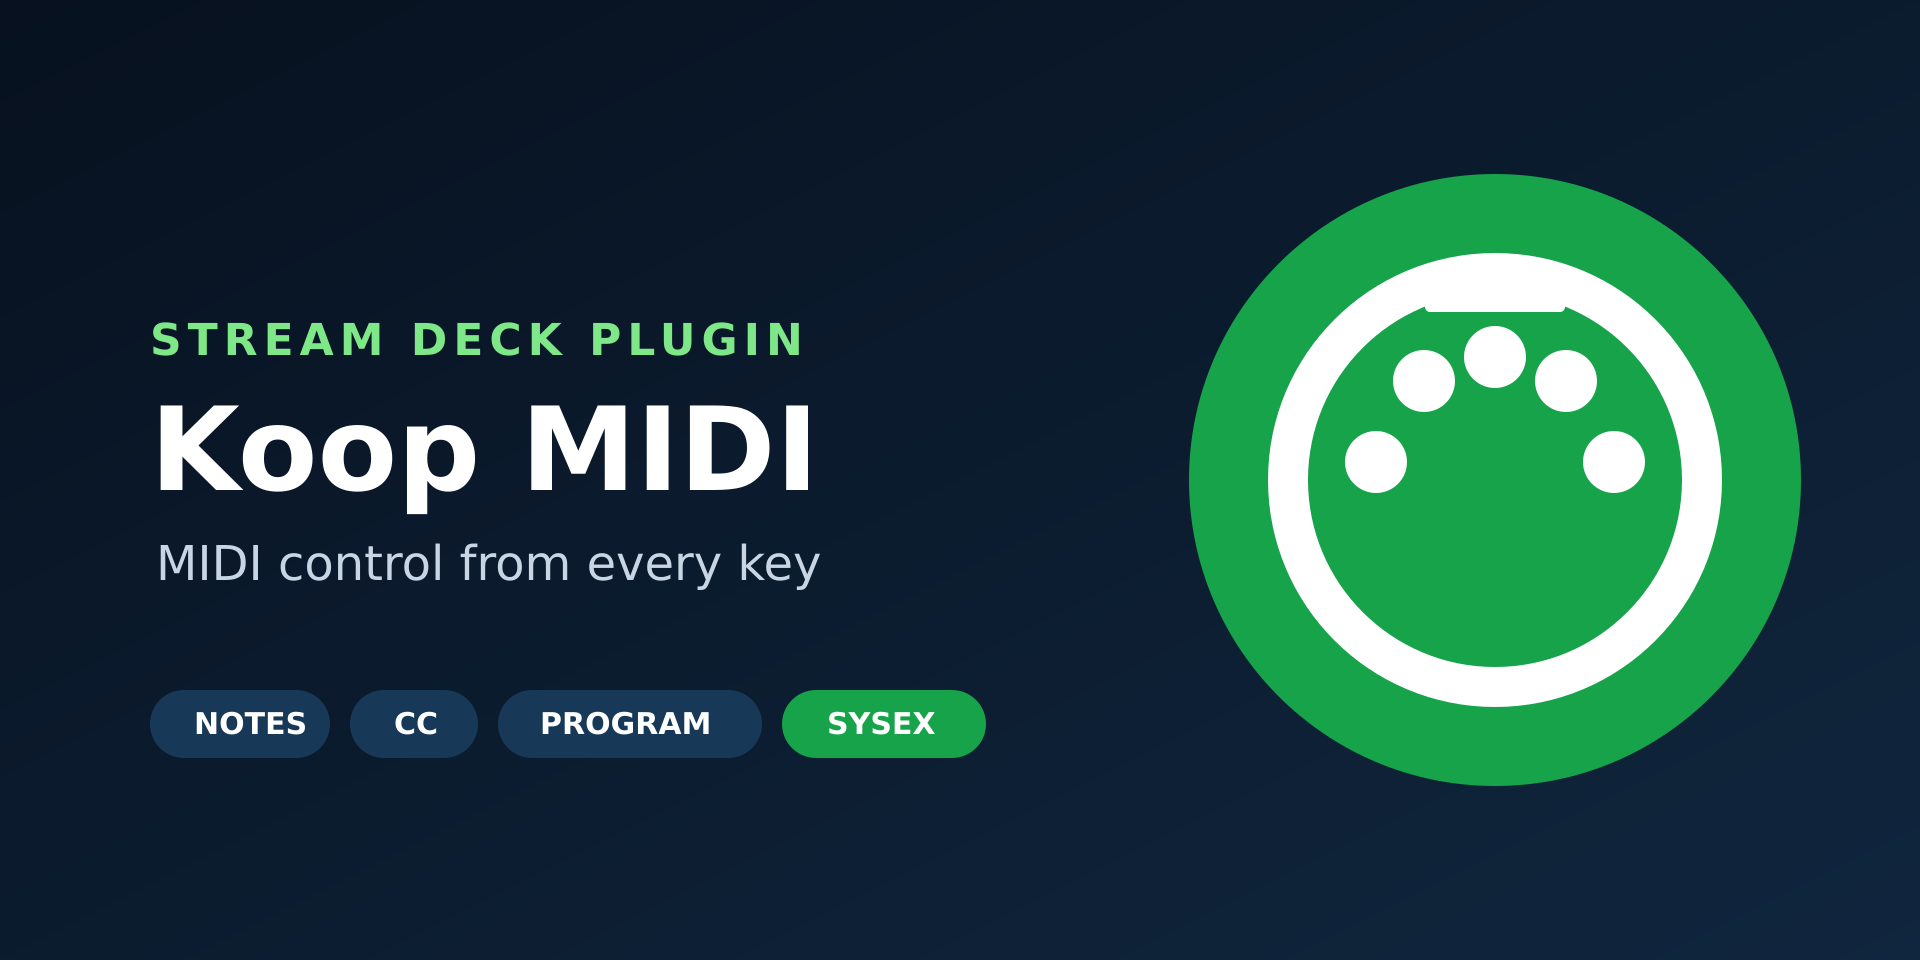
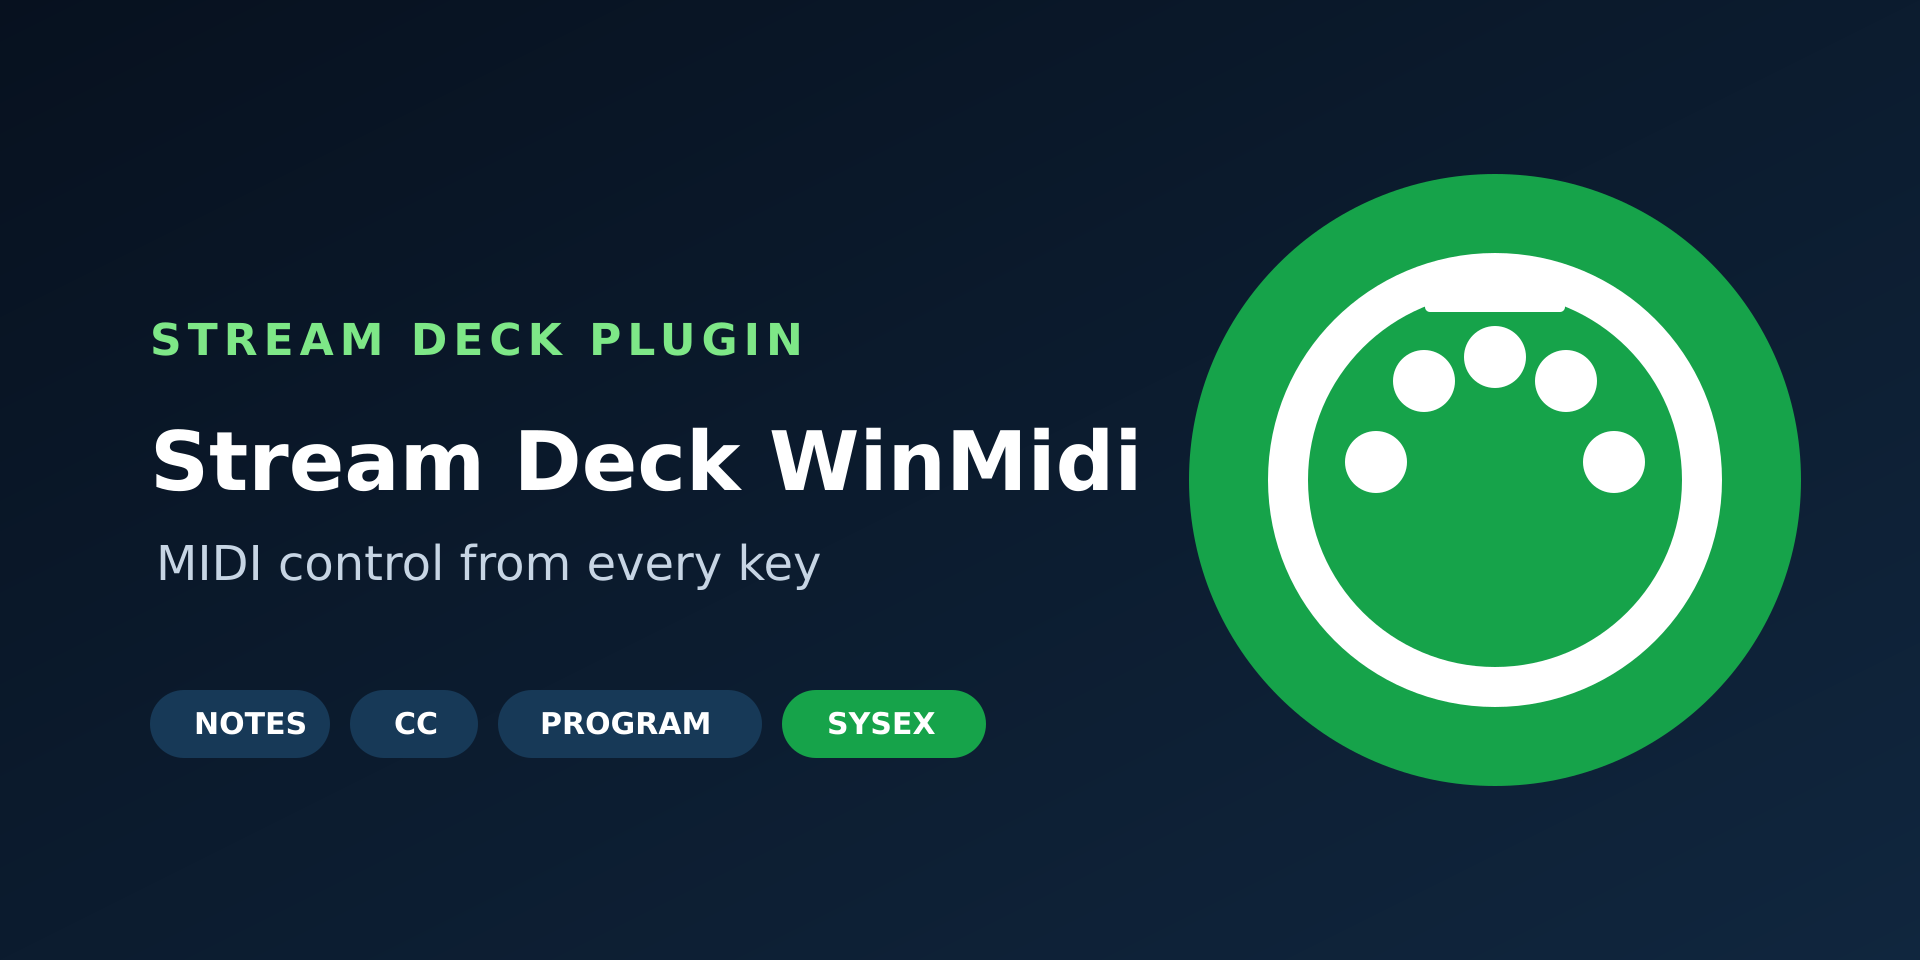
Rename product to Stream Deck WinMidi

Changed region(s): [[0.0625, 0.4062, 0.5938, 0.5312]]

diff --git a/com.koop.streamdeck-midi.sdPlugin/ui/send-midi.html b/com.koop.streamdeck-midi.sdPlugin/ui/send-midi.html
@@ -2,7 +2,7 @@
 <html>
 <head>
   <meta charset="utf-8">
-  <title>Koop MIDI</title>
+  <title>Stream Deck WinMidi</title>
   <script src="sdpi-components.js"></script>
   <style>
     .koop-help { color: #9fd7ff; text-decoration: none; }
@@ -58,9 +58,9 @@
   </sdpi-item>
   <sdpi-item label="Help">
     <sdpi-static>
-      <a class="koop-help" href="https://github.com/ibanman555/Koop-MIDI#readme" target="_blank" rel="noopener">Setup guide</a>
+      <a class="koop-help" href="https://github.com/ibanman555/Stream-Deck-WinMidi#readme" target="_blank" rel="noopener">Setup guide</a>
       &nbsp;·&nbsp;
-      <a class="koop-help" href="https://github.com/ibanman555/Koop-MIDI/issues" target="_blank" rel="noopener">Report an issue</a>
+      <a class="koop-help" href="https://github.com/ibanman555/Stream-Deck-WinMidi/issues" target="_blank" rel="noopener">Report an issue</a>
     </sdpi-static>
   </sdpi-item>
 </body>

diff --git a/marketplace/listing.md b/marketplace/listing.md
@@ -1,15 +1,15 @@
-# Koop MIDI — Marketplace listing
+# Stream Deck WinMidi — Marketplace listing
 
 ## Submission fields
 
-- **Product name:** Koop MIDI
+- **Product name:** Stream Deck WinMidi
 - **Category:** Music
 - **Price:** Free
 - **Platform:** Windows
 - **Author / organization:** Koop
-- **Support URL:** https://github.com/ibanman555/Koop-MIDI/issues
-- **Setup guide:** https://github.com/ibanman555/Koop-MIDI#readme
-- **Source code:** https://github.com/ibanman555/Koop-MIDI
+- **Support URL:** https://github.com/ibanman555/Stream-Deck-WinMidi/issues
+- **Setup guide:** https://github.com/ibanman555/Stream-Deck-WinMidi#readme
+- **Source code:** https://github.com/ibanman555/Stream-Deck-WinMidi
 
 ## Short description
 
@@ -17,15 +17,15 @@ Send MIDI notes, control changes, program changes, raw MIDI, and SysEx from Stre
 
 ## Full description
 
-Turn Stream Deck into a flexible MIDI controller. Koop MIDI sends standard MIDI messages or exact hexadecimal byte sequences to physical and virtual Windows MIDI outputs.
+Stream Deck WinMidi turns Stream Deck keys into a configurable Windows MIDI controller. Send Note On/Off, Control Change, Program Change, raw MIDI bytes, and System Exclusive messages to physical interfaces or virtual ports such as Bome MIDI Translator.
 
-Configure Note On and Note Off, Control Change, Program Change, raw MIDI, or System Exclusive (SysEx) from one simple action. Press and release can send separate messages, making the plugin useful for momentary controls, toggles, cueing, automation, synthesizers, lighting software, DAWs, and Bome MIDI Translator workflows.
+Add the Send MIDI action to a key, choose a Windows MIDI output, select a message type, and enter the channel, note, controller, program, velocity, or value. Note and Control Change actions can send an automatic release message. Raw MIDI and SysEx support separate hexadecimal press and release sequences; SysEx messages must begin with F0 and end with F7.
 
-Koop MIDI includes selectable output ports, clear setup guidance, automatic setting changes, and optional on-key success and error feedback. Raw messages accept readable hexadecimal bytes, while SysEx validation helps prevent incomplete transmissions.
+Optional on-key feedback displays successful sends and alerts for invalid data, unavailable ports, helper errors, or timeouts. Settings save automatically in Stream Deck. The plugin includes one configurable Send MIDI action for physical and virtual Windows MIDI outputs.
 
 Requires Windows 10 or later, Stream Deck 6.9 or later, and a physical or virtual Windows MIDI output.
 
-Koop MIDI is an independent project and is not affiliated with or endorsed by Elgato. Stream Deck is a trademark of Elgato.
+Stream Deck WinMidi is an independent project and is not affiliated with or endorsed by Elgato. Stream Deck is a trademark of Elgato.
 
 ## Feature bullets
 
@@ -40,12 +40,12 @@ Koop MIDI is an independent project and is not affiliated with or endorsed by El
 
 ## Release notes — 1.1.4
 
-Marketplace-ready release with MIDI Note, CC, Program Change, raw MIDI, and SysEx support; selectable Windows MIDI outputs; optional press/release messages; visible success/error feedback; MIDI DIN artwork; and in-app setup and support links.
+Renamed the product to Stream Deck WinMidi. Includes MIDI Note, CC, Program Change, raw MIDI, and SysEx support; selectable Windows MIDI outputs; optional press/release messages; visible success/error feedback; MIDI DIN artwork; and in-app setup and support links.
 
 ## Submission checklist
 
 - Upload `com.koop.streamdeck-midi.streamDeckPlugin` as the product file.
 - Upload `thumbnail.png` as the 1920 × 960 thumbnail.
 - Upload all three `gallery-*.png` files as gallery items.
-- Upload `app-icon-512.png` as the app icon if the Maker Console requests it separately.
+- Upload `app-icon-288.png` as the 288 × 288 app icon.
 - Confirm that the Maker Console organization name is exactly `Koop`, matching the manifest Author field.

diff --git a/README.md b/README.md
@@ -1,10 +1,10 @@
 <p align="center">
-  <img src="com.koop.streamdeck-midi.sdPlugin/imgs/plugin/icon@2x.png" width="192" alt="Koop MIDI fader icon">
+  <img src="com.koop.streamdeck-midi.sdPlugin/imgs/plugin/icon@2x.png" width="192" alt="Stream Deck WinMidi MIDI DIN icon">
 </p>
 
-# Koop MIDI for Stream Deck
+# Stream Deck WinMidi
 
-Koop MIDI is a Windows Stream Deck plugin for sending MIDI messages directly
+Stream Deck WinMidi is a Windows Stream Deck plugin for sending MIDI messages directly
 from Stream Deck keys. It supports standard channel messages, arbitrary raw
 MIDI data, and System Exclusive messages without requiring Companion.
 
@@ -16,10 +16,10 @@ MIDI data, and System Exclusive messages without requiring Companion.
 
 ## Installation
 
-1. Open the [latest release](https://github.com/ibanman555/Koop-MIDI/releases/latest).
+1. Open the [latest release](https://github.com/ibanman555/Stream-Deck-WinMidi/releases/latest).
 2. Download `com.koop.streamdeck-midi.streamDeckPlugin` from **Assets**.
 3. Double-click the downloaded file and approve installation in Stream Deck.
-4. Drag **Koop MIDI → Send MIDI** onto a key.
+4. Drag **Stream Deck WinMidi → Send MIDI** onto a key.
 5. Choose a MIDI output and configure the message.
 
 Do not download GitHub's automatically generated source archive if you only
@@ -40,7 +40,9 @@ numbers are entered as 0–127.
 
 ## Bome MIDI Translator
 
-If you have Bome MIDI Translator installed, Bome virtual MIDI ports appear in the plugin's **MIDI Output** menu. Select the Bome virtual input that should receive the Stream Deck messages, open Bome's MIDI log, and press the Stream Deck key to verify the transmitted bytes.
+Bome virtual MIDI ports appear in the plugin's **MIDI Output** menu. Select the
+Bome virtual input that should receive the Stream Deck messages, open Bome's
+MIDI log, and press the Stream Deck key to verify the transmitted bytes.
 
 ## Raw MIDI and SysEx
 
@@ -77,13 +79,13 @@ installer is excluded from source control and distributed through Releases.
 
 ## Support and contributions
 
-Use [GitHub Issues](https://github.com/ibanman555/Koop-MIDI/issues) for bug
+Use [GitHub Issues](https://github.com/ibanman555/Stream-Deck-WinMidi/issues) for bug
 reports and feature requests. See [CONTRIBUTING.md](CONTRIBUTING.md) for build
 and testing guidance.
 
 ## License
 
-Koop MIDI is released under the [MIT License](LICENSE).
+Stream Deck WinMidi is released under the [MIT License](LICENSE).
 
-Stream Deck is a trademark of Elgato. Koop MIDI is an independent project and
+Stream Deck is a trademark of Elgato. Stream Deck WinMidi is an independent project and
 is not affiliated with or endorsed by Elgato.

diff --git a/CHANGELOG.md b/CHANGELOG.md
@@ -2,6 +2,7 @@
 
 ## 1.1.4 - 2026-09-17
 
+- Renamed the public product from Koop MIDI to Stream Deck WinMidi while preserving the plugin UUID for compatibility.
 - Prepared the plugin package and product media for Elgato Marketplace submission.
 - Updated category and action-list artwork to the required monochrome treatment.
 - Added setup and support links to the Property Inspector.
